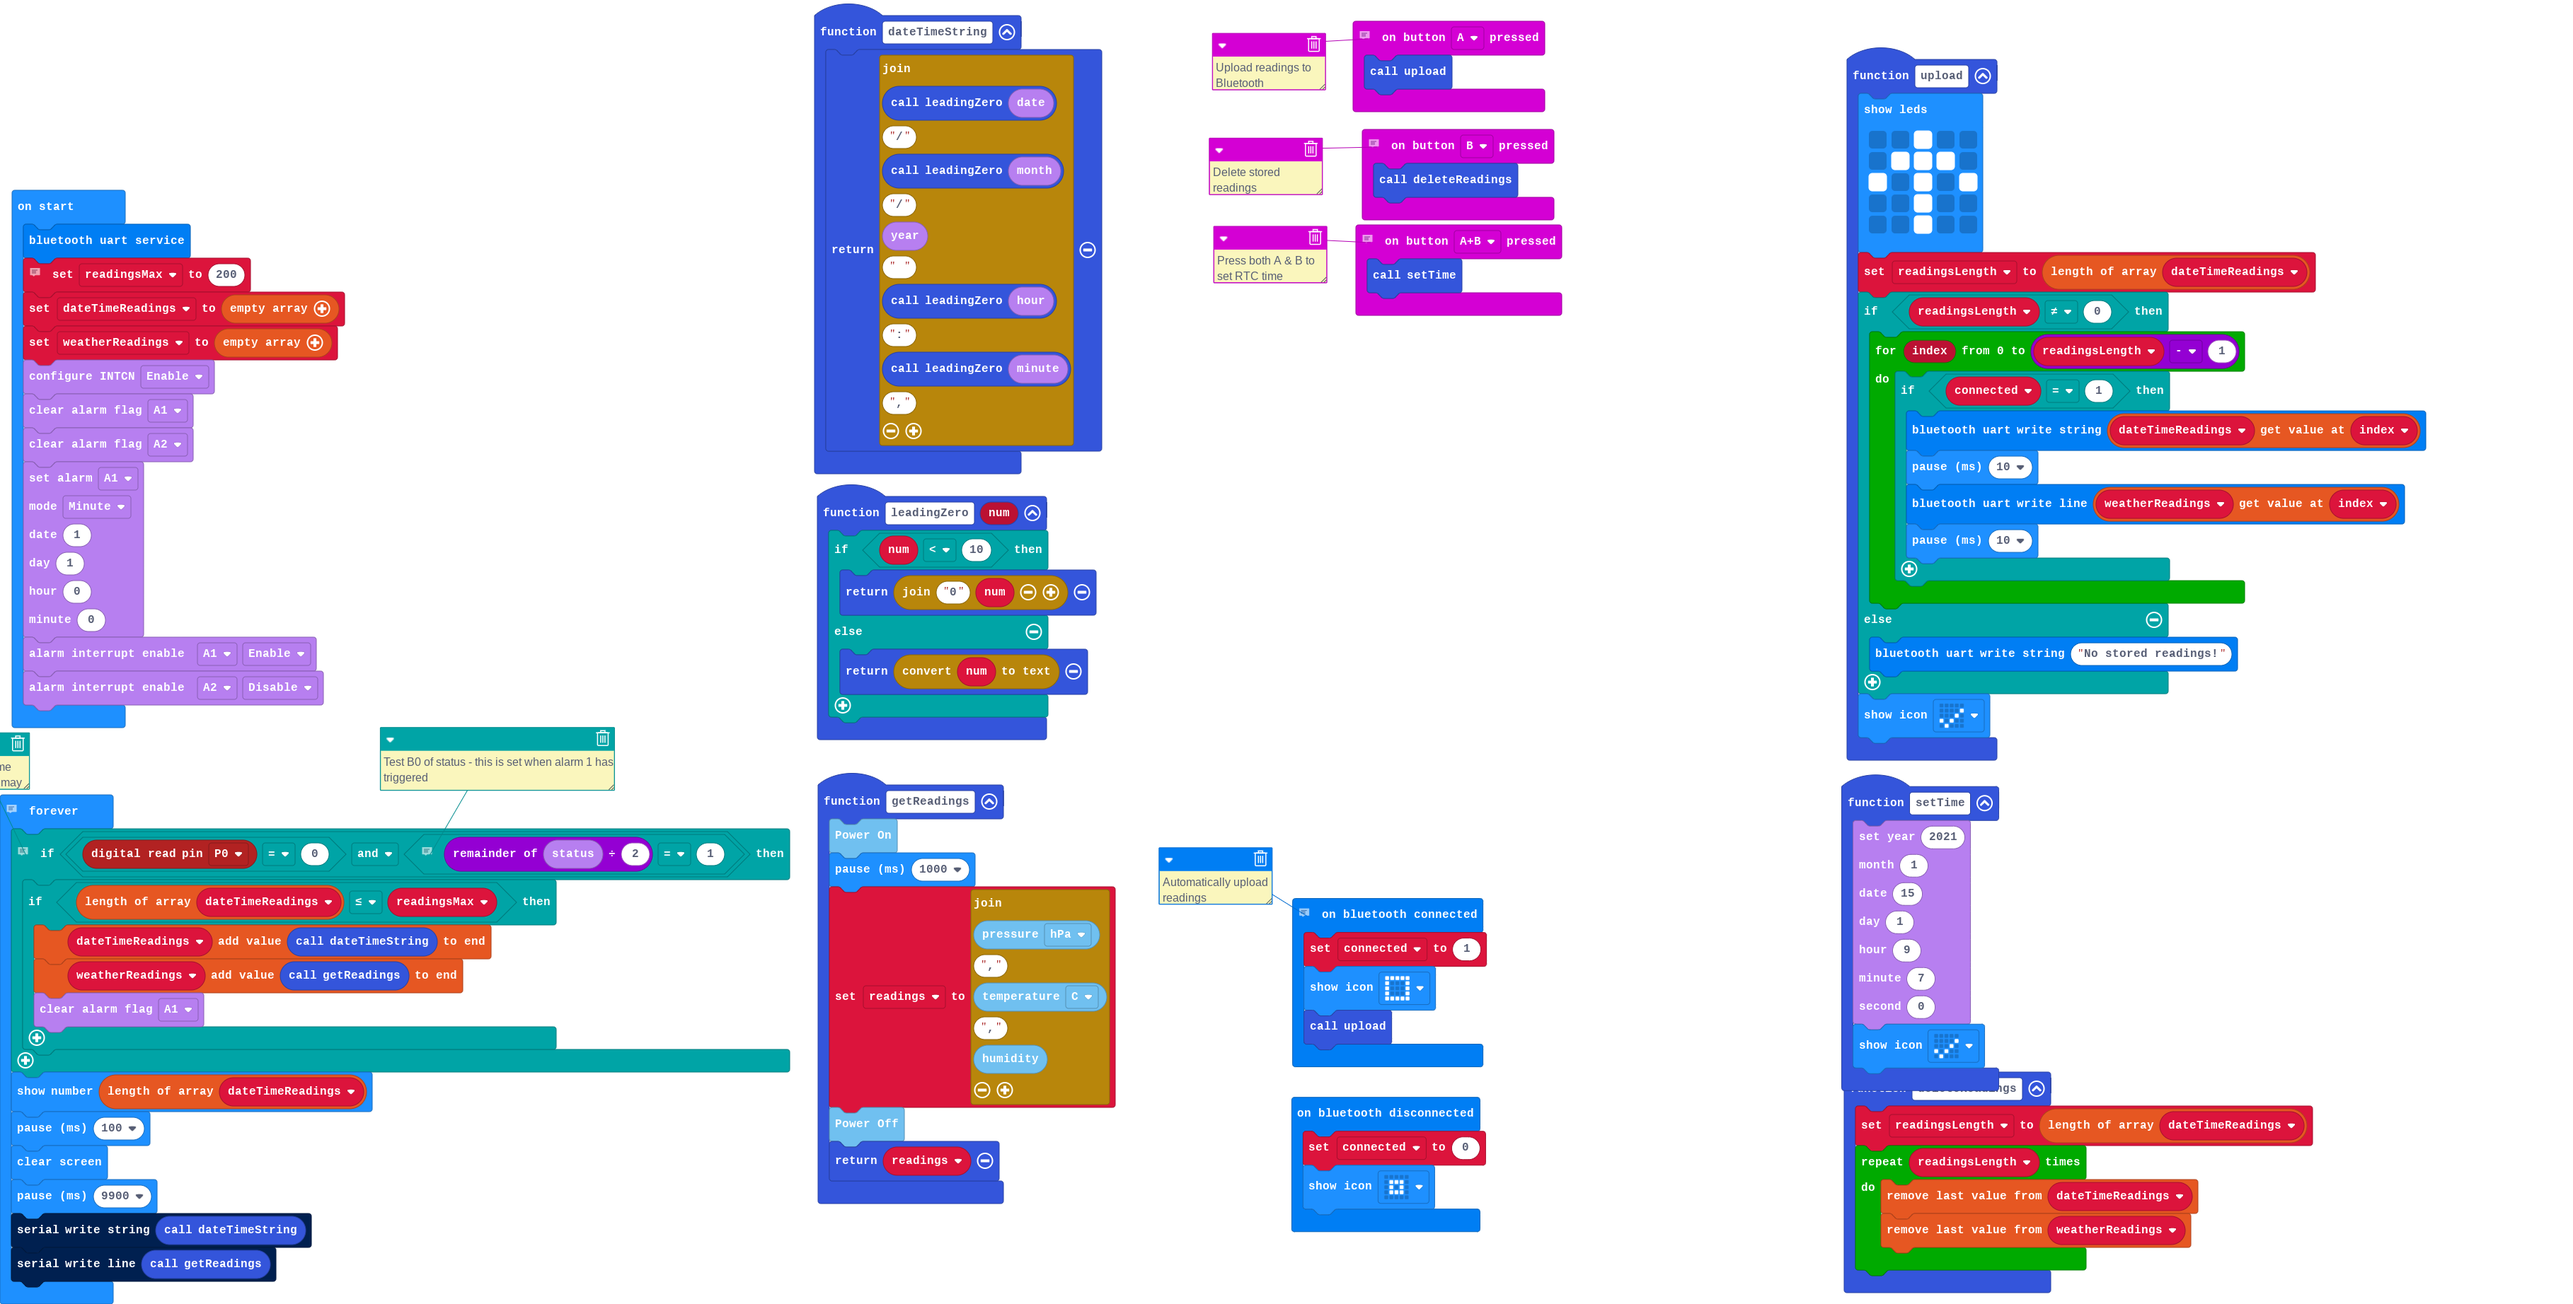
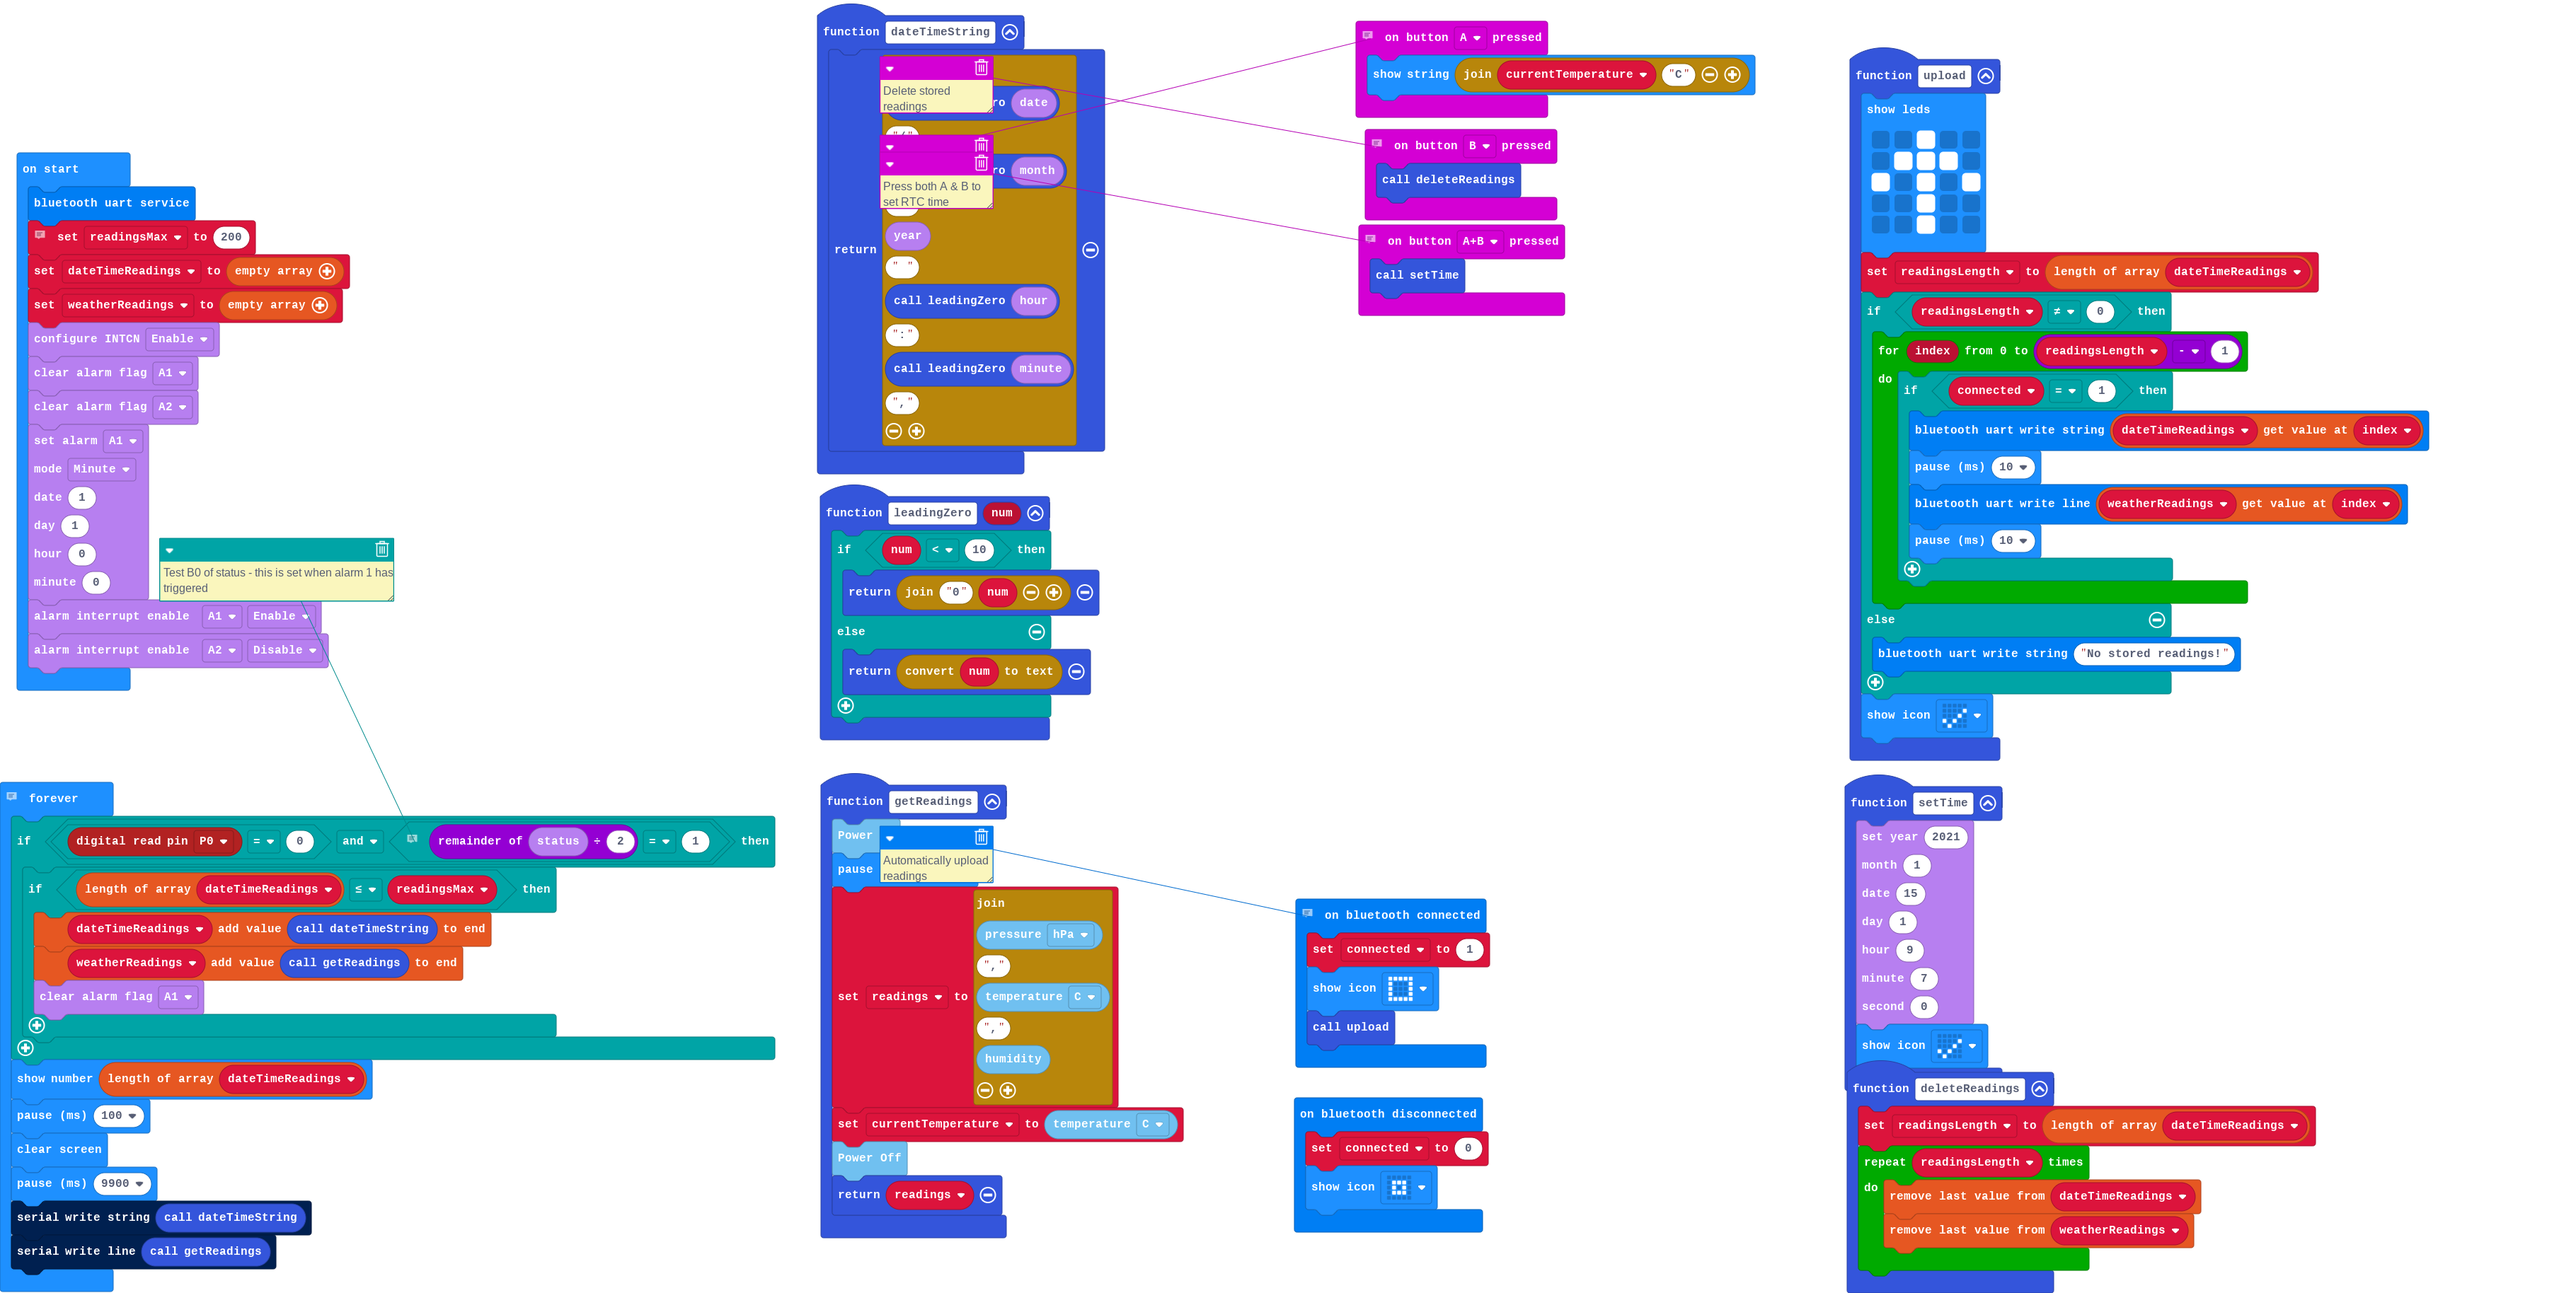
Button A now displays temperature

Changed region(s): [[0.0, 0.0, 0.5905, 1.0], [0.7148, 0.0312, 0.9634, 1.0], [0.4662, 0.0, 0.6837, 0.2495]]

diff --git a/main.ts b/main.ts
@@ -22,14 +22,15 @@ bluetooth.onBluetoothDisconnected(function () {
     connected = 0
     basic.showIcon(IconNames.SmallSquare)
 })
-// Upload readings to Bluetooth
+// Display temperature
 input.onButtonPressed(Button.A, function () {
-    upload()
+    basic.showString("" + currentTemperature + "C")
 })
 function getReadings () {
     BME280.PowerOn()
     basic.pause(1000)
     readings = "" + BME280.pressure(BME280_P.hPa) + "," + BME280.temperature(BME280_T.T_C) + "," + BME280.humidity()
+    currentTemperature = BME280.temperature(BME280_T.T_C)
     BME280.PowerOff()
     return readings
 }
@@ -80,6 +81,7 @@ input.onButtonPressed(Button.B, function () {
     deleteReadings()
 })
 let readings = ""
+let currentTemperature = 0
 let connected = 0
 let readingsLength = 0
 let weatherReadings: string[] = []
@@ -104,7 +106,6 @@ DS3231.disableAlarm(alarmNum.A1, interruptEnable.Enable)
 DS3231.disableAlarm(alarmNum.A2, interruptEnable.Disable)
 // Poll pin P0 to see if alarm is set
 basic.forever(function () {
-    // Test for alarm time NB B7 of status may be 1 if oscillator stopped
     // Test B0 of status - this is set when alarm 1 has triggered
     if (pins.digitalReadPin(DigitalPin.P0) == 0 && DS3231.status() % 2 == 1) {
         if (dateTimeReadings.length <= readingsMax) {
